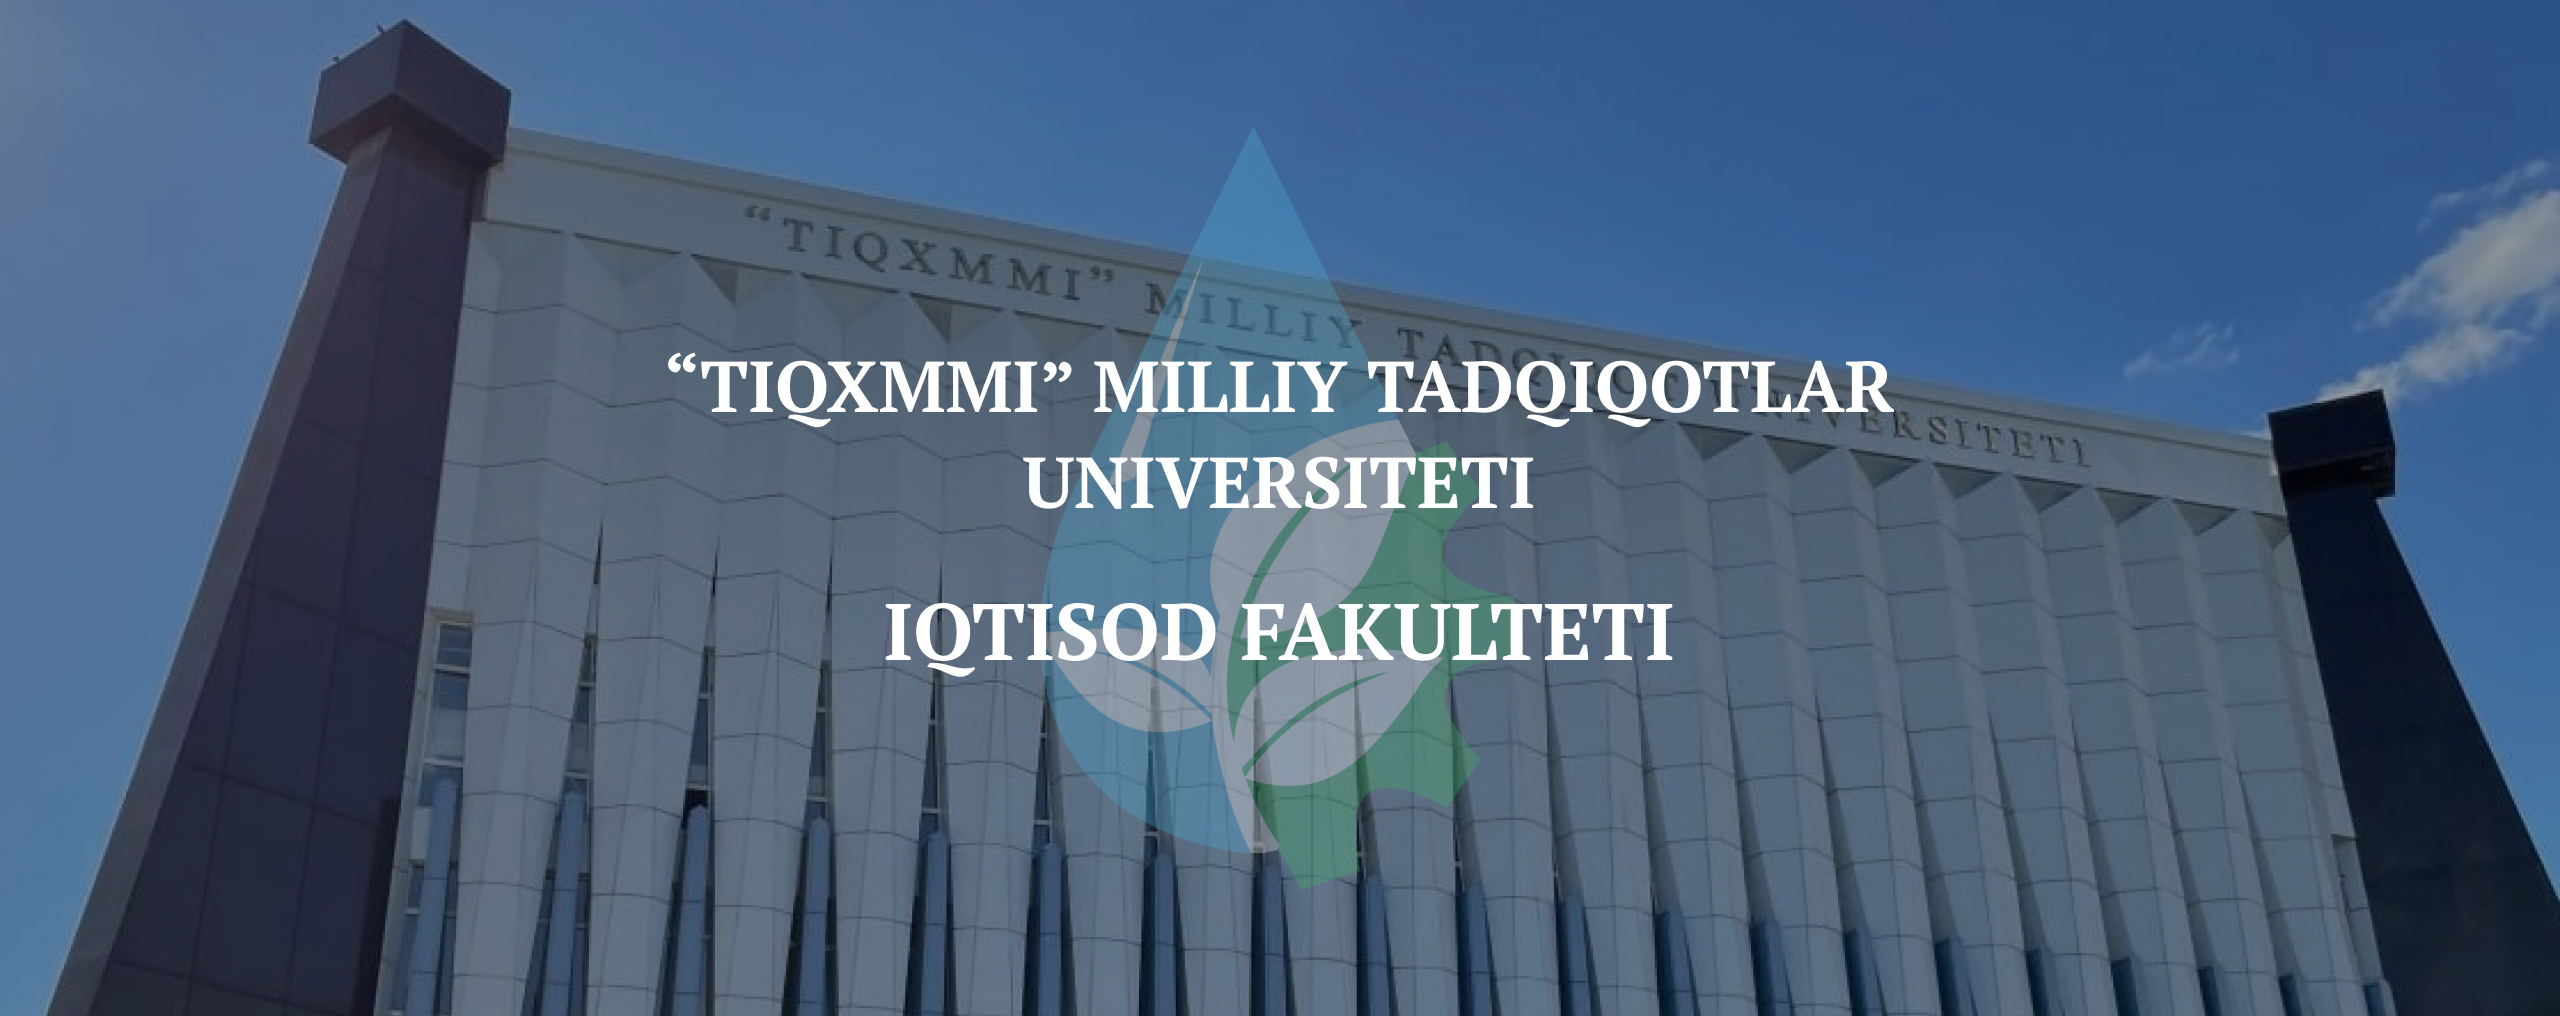
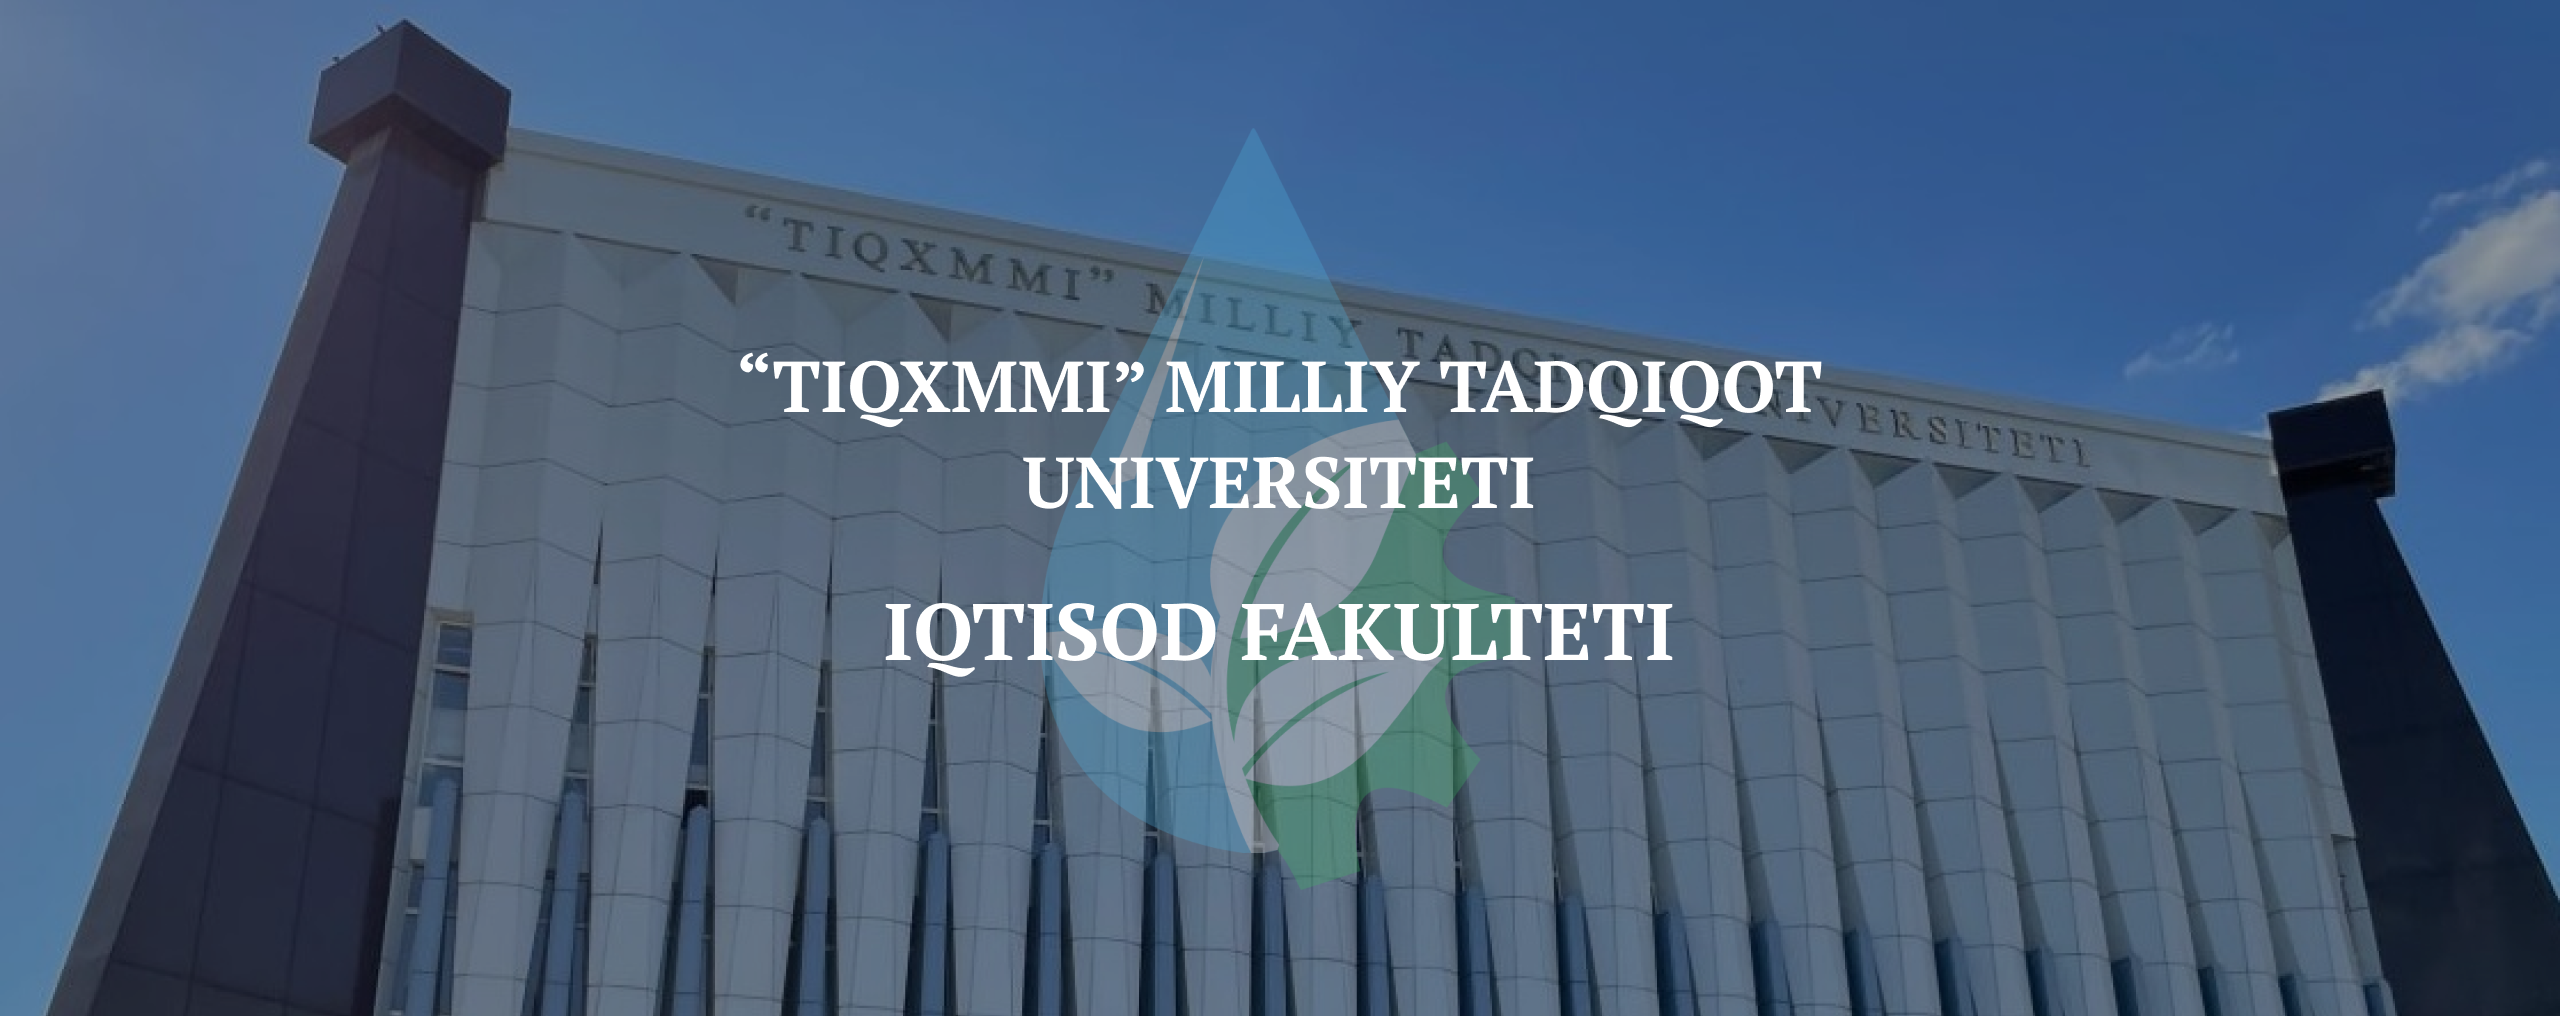
Project ready for Production and Deploying

Changed region(s): [[0.25, 0.3356, 0.75, 0.4272]]

diff --git a/templates/feedbackbot/home.html b/templates/feedbackbot/home.html
@@ -14,7 +14,7 @@
             <a href="{% url 'home' %}"><img src="{% static 'feedbackbot/image/logo.png' %}" id="logo-img"
                                             alt="logo"></a>
             <span class="header_name">"Toshkent irrigatsiya va qishloq xo'jaligini mehanizatsiyalash muhandislari instituti" <br>Milliy
-                tadqiqoqt
+                tadqiqot
                 universiteti</span>
 
             <div class="nav-links" id="navLinks">
